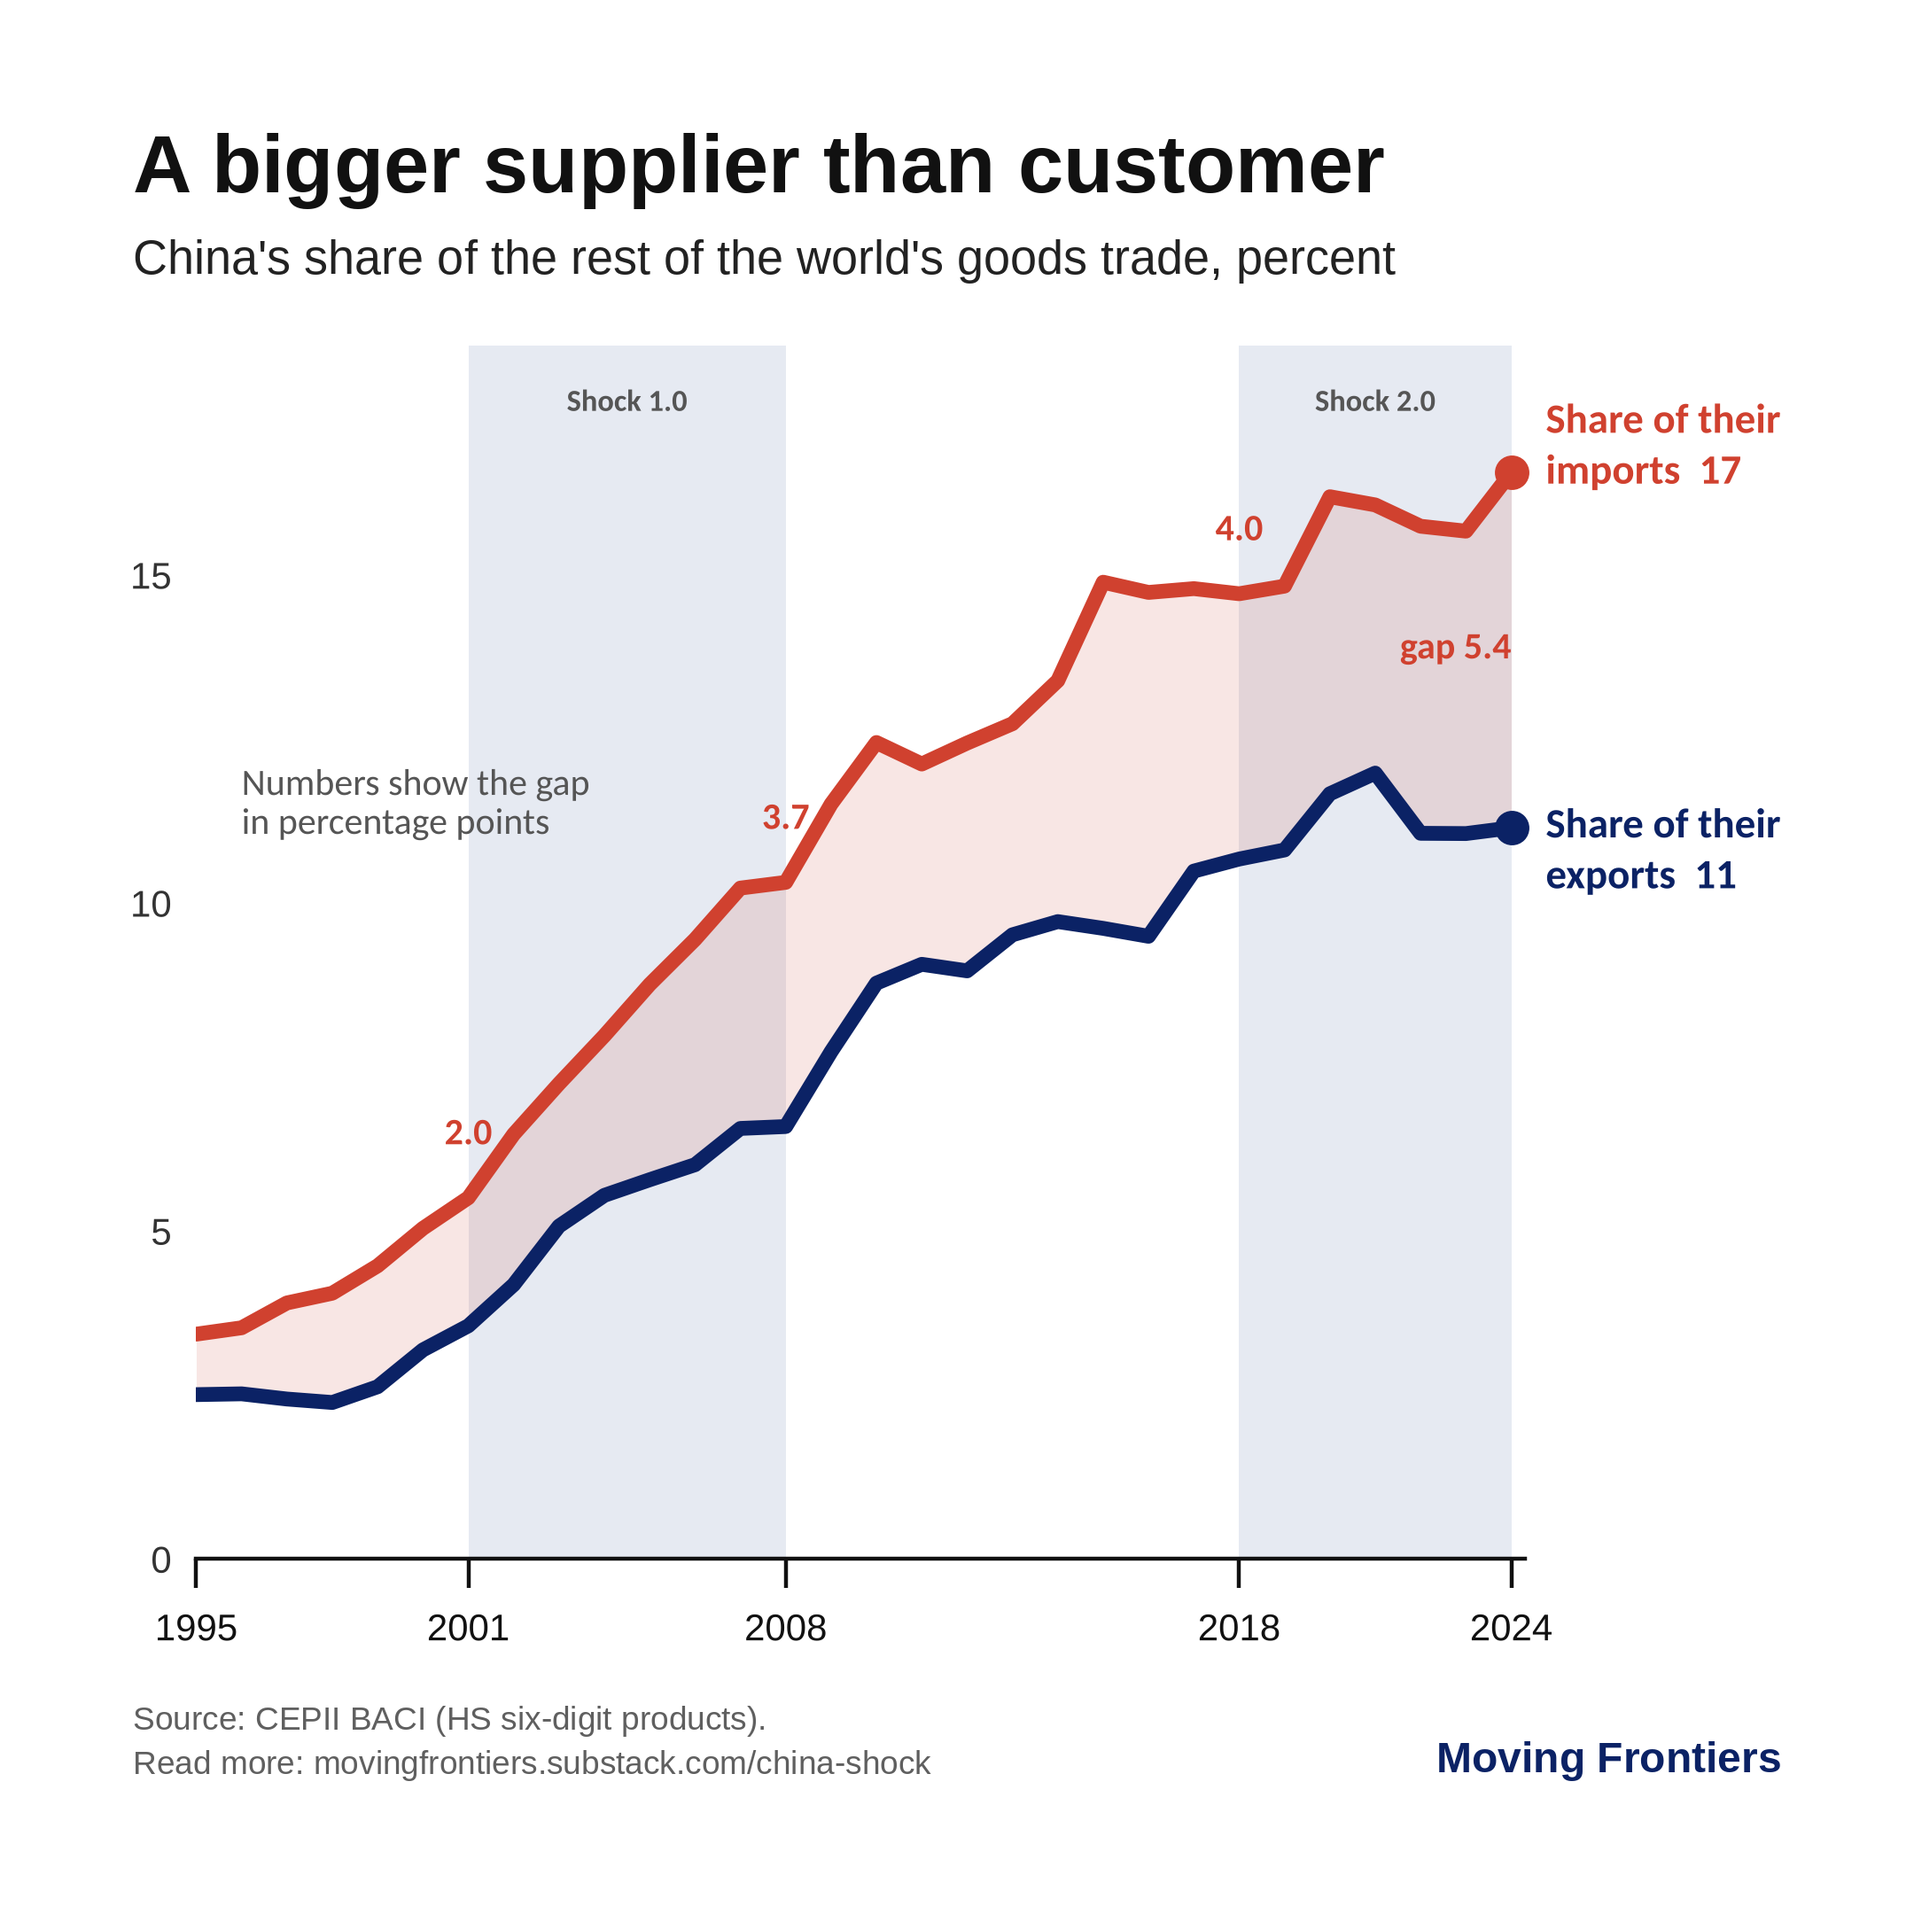
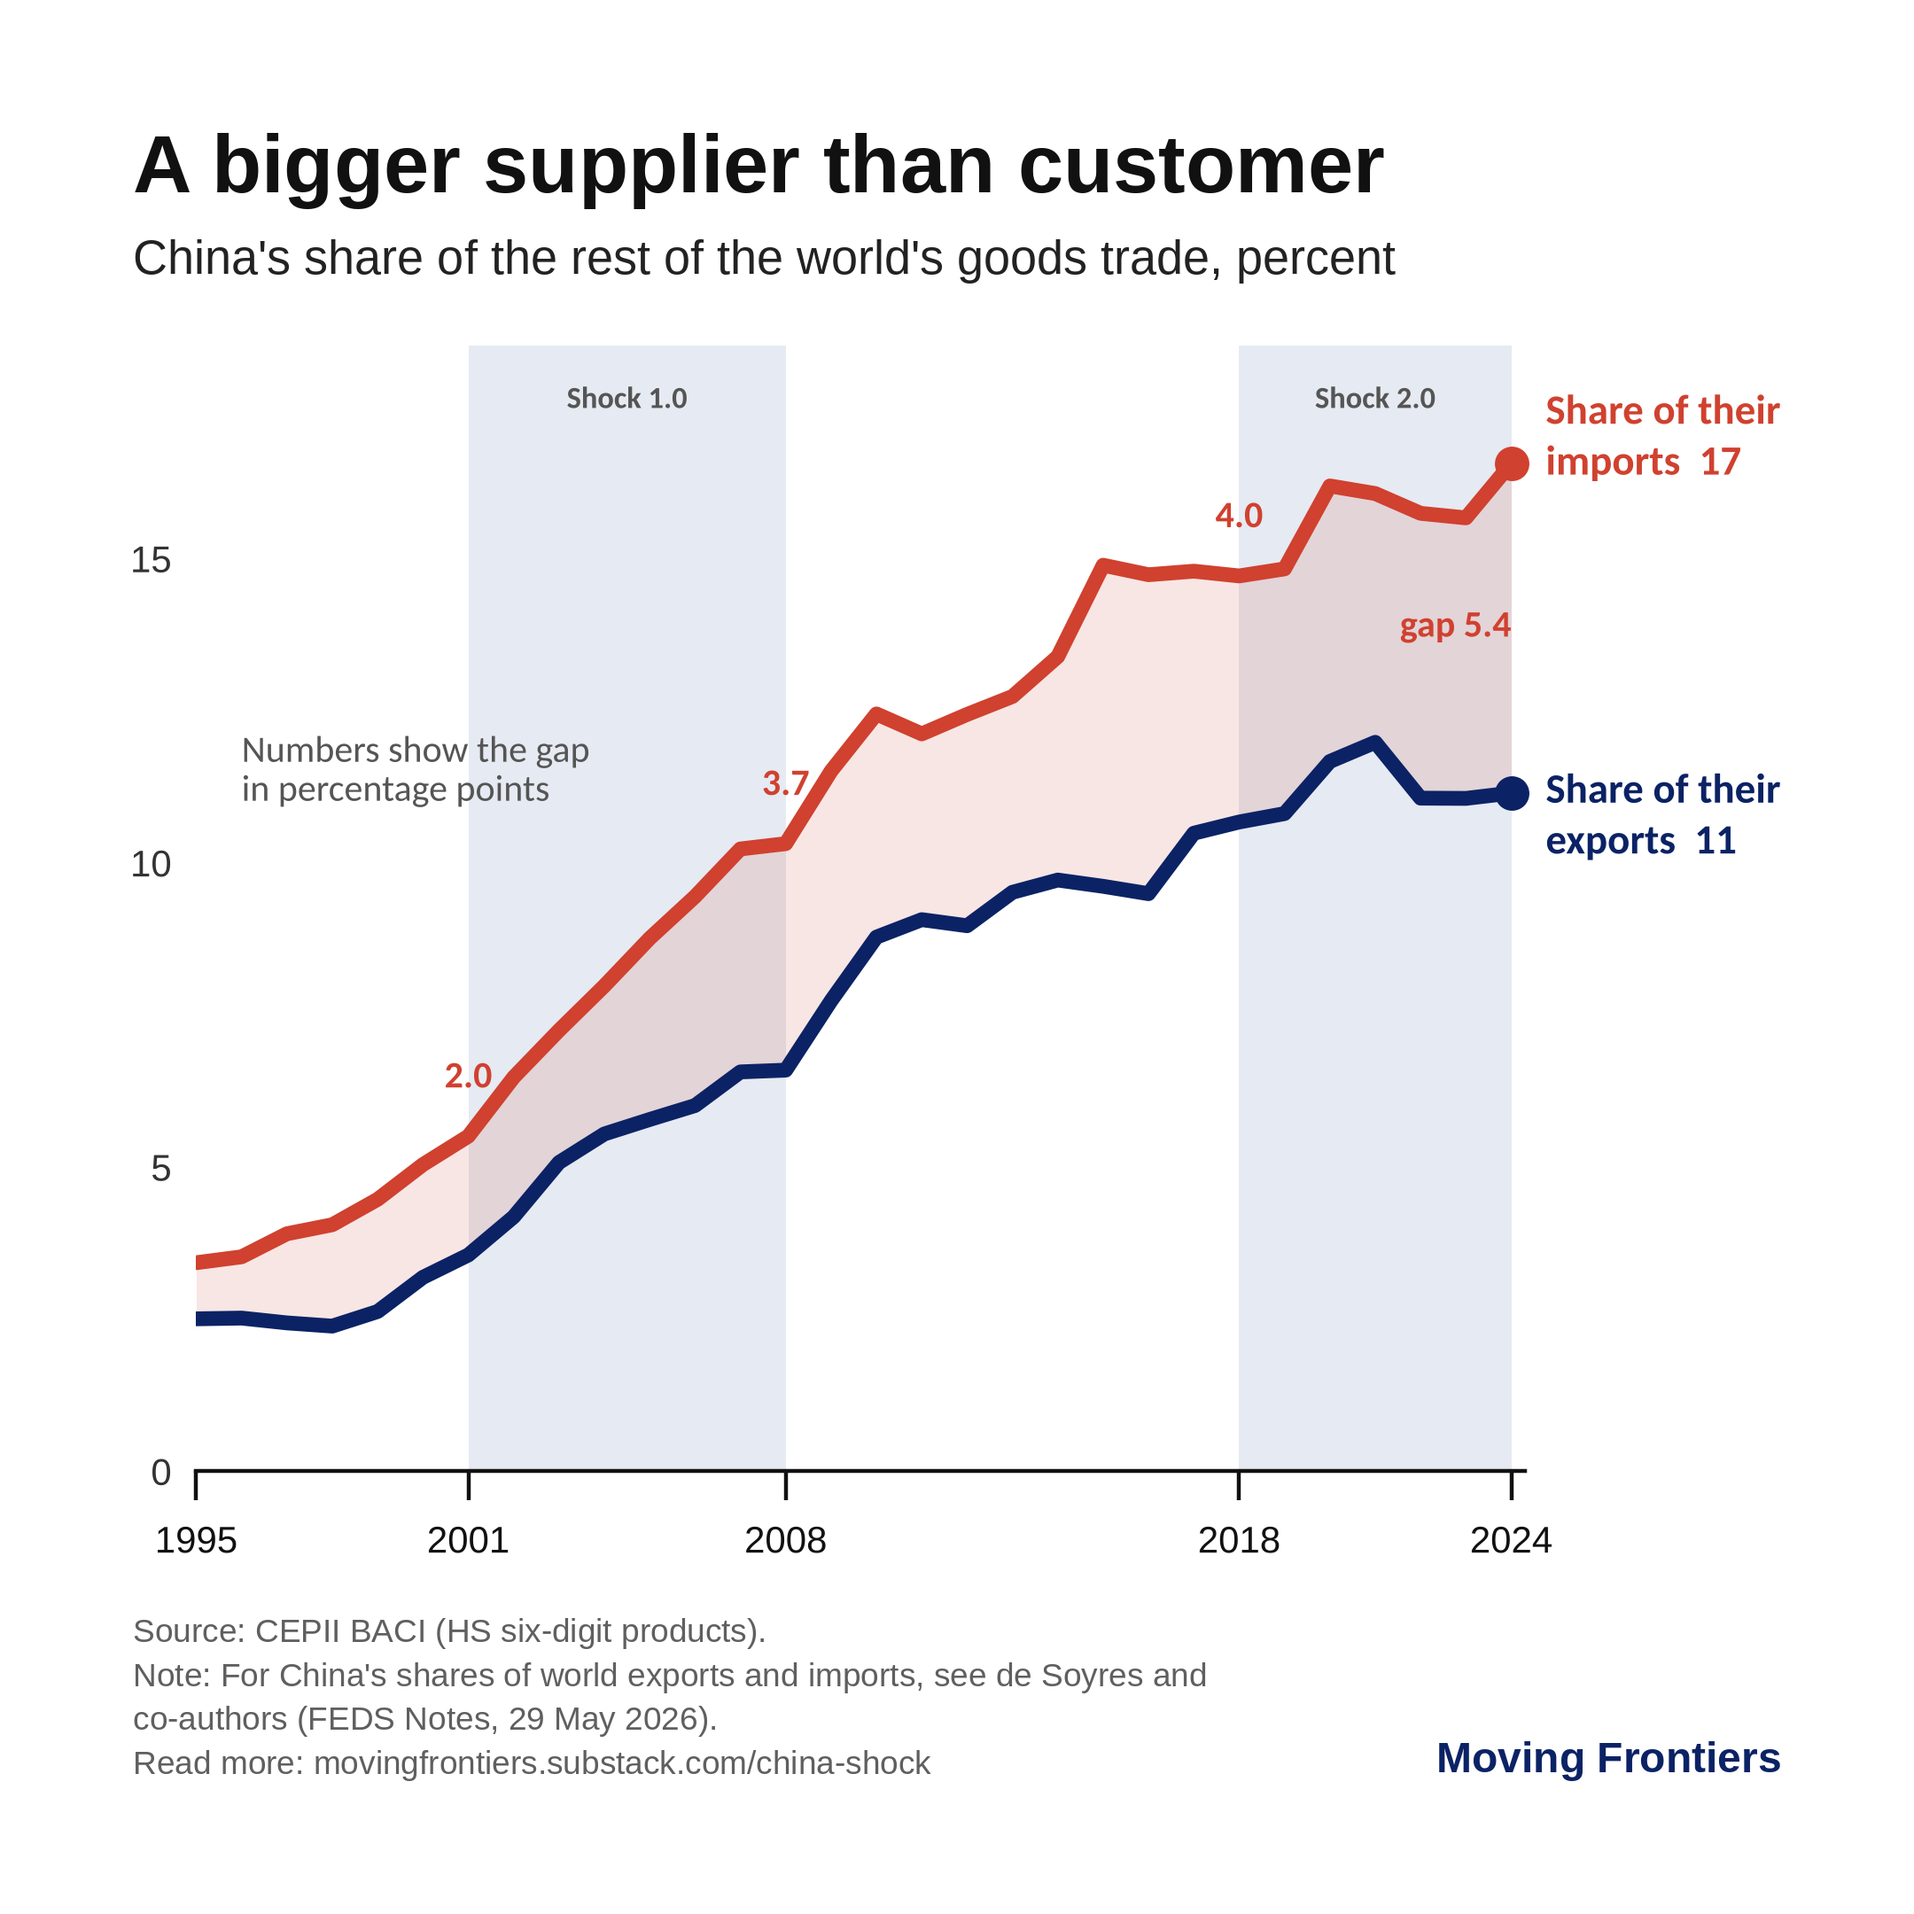
update

diff --git a/20261123-china-leads-world-exports-in-nearly-half-of-all-goods/chart-10-export-similarity.py b/20261123-china-leads-world-exports-in-nearly-half-of-all-goods/chart-10-export-similarity.py
@@ -199,7 +199,7 @@ def ends(ax, x, items, gap, size=None, fmt="{:.0f}", dx=14):
                     fontsize=size or S_VALUE, va="center", annotation_clip=False)
 NAME, DATA = "chart-10-export-similarity", "chart-10-export-similarity"
 # Export similarity index with China: the sum over all HS six-digit products of the smaller of the two economies' export shares.
-# 0 means no product in common; 100 means identical export baskets.
+# 0 means no product in common; 100 means identical export baskets. See also de Soyres and co-authors (FEDS Notes, 29 May 2026).
 D = {r["iso"]: r for r in rows(DATA)}; X = list(range(1995, 2025))
 PICK = [("VNM", GOLD), ("DEU", RED), ("KOR", SKY), ("JPN", NAVY), ("USA", "#7A7A7A"), ("PAK", "#9C6B3F"), ("BGD", "#2E8B57")]
 def plot(fig):
@@ -209,4 +209,4 @@ def plot(fig):
     ends(ax, X[-1], it, 2.6, size=S_LABEL)
     ax.set_xlim(1995, 2024.3); ax.set_ylim(0, 58); ax.set_yticks([0, 10, 20, 30, 40, 50]); ax.set_xticks([1995, 2001, 2008, 2018, 2024])
 compose(plot, "China's exports look like Germany's", "Export similarity with China, index from 0 to 100",
-        SRC + "\nNote: Similarity = 100 x the sum, across about 5,000 products, of the smaller of the product's share in each economy's exports. 0 means no product in common; 100 means identical export baskets.\n" + READ, os.path.join(HERE, NAME + ".png"))
+        SRC + "\nNote: Export similarity index of Finger and Kreinin (1979) = 100 x the sum, across about 5,000 products, of the smaller of the product's share in each economy's exports. 0 means no product in common; 100 means identical export baskets. See also de Soyres and co-authors (FEDS Notes, 29 May 2026).\n" + READ, os.path.join(HERE, NAME + ".png"))

diff --git a/scripts/chart-10-export-similarity.py b/scripts/chart-10-export-similarity.py
@@ -199,7 +199,7 @@ def ends(ax, x, items, gap, size=None, fmt="{:.0f}", dx=14):
                     fontsize=size or S_VALUE, va="center", annotation_clip=False)
 NAME, DATA = "chart-10-export-similarity", "chart-10-export-similarity"
 # Export similarity index with China: the sum over all HS six-digit products of the smaller of the two economies' export shares.
-# 0 means no product in common; 100 means identical export baskets.
+# 0 means no product in common; 100 means identical export baskets. See also de Soyres and co-authors (FEDS Notes, 29 May 2026).
 D = {r["iso"]: r for r in rows(DATA)}; X = list(range(1995, 2025))
 PICK = [("VNM", GOLD), ("DEU", RED), ("KOR", SKY), ("JPN", NAVY), ("USA", "#7A7A7A"), ("PAK", "#9C6B3F"), ("BGD", "#2E8B57")]
 def plot(fig):
@@ -209,4 +209,4 @@ def plot(fig):
     ends(ax, X[-1], it, 2.6, size=S_LABEL)
     ax.set_xlim(1995, 2024.3); ax.set_ylim(0, 58); ax.set_yticks([0, 10, 20, 30, 40, 50]); ax.set_xticks([1995, 2001, 2008, 2018, 2024])
 compose(plot, "China's exports look like Germany's", "Export similarity with China, index from 0 to 100",
-        SRC + "\nNote: Similarity = 100 x the sum, across about 5,000 products, of the smaller of the product's share in each economy's exports. 0 means no product in common; 100 means identical export baskets.\n" + READ, os.path.join(HERE, NAME + ".png"))
+        SRC + "\nNote: Export similarity index of Finger and Kreinin (1979) = 100 x the sum, across about 5,000 products, of the smaller of the product's share in each economy's exports. 0 means no product in common; 100 means identical export baskets. See also de Soyres and co-authors (FEDS Notes, 29 May 2026).\n" + READ, os.path.join(HERE, NAME + ".png"))

diff --git a/20261123-china-leads-world-exports-in-nearly-half-of-all-goods/chart-24-complementarity-over-time.py b/20261123-china-leads-world-exports-in-nearly-half-of-all-goods/chart-24-complementarity-over-time.py
@@ -209,4 +209,4 @@ def plot(fig):
     panel(fig.add_axes([0.07, 0.56, 0.68, 0.42]), [("DEU", RED), ("JPN", NAVY), ("KOR", SKY), ("TWN", GOLD)], "Industrial exporters", 4.6)
     panel(fig.add_axes([0.07, 0.07, 0.68, 0.42]), [("BRA", RED), ("KAZ", NAVY), ("SAU", SKY), ("RUS", GOLD)], "Commodity exporters", 4.6)
 compose(plot, "Germany fits less, Brazil fits more", "Trade complementarity with China's imports, index from 0 to 100",
-        SRC + "\nNote: Complementarity = 100 x (1 minus half the sum, across about 5,000 products, of the gap between the product's share in the economy's exports and in China's imports). 100 means a perfect match.\n" + READ, os.path.join(HERE, NAME + ".png"))
+        SRC + "\nNote: Trade complementarity index of Michaely (1996) = 100 x (1 minus half the sum, across about 5,000 products, of the gap between the product's share in the economy's exports and in China's imports). 100 means a perfect match.\n" + READ, os.path.join(HERE, NAME + ".png"))

diff --git a/scripts/chart-24-complementarity-over-time.py b/scripts/chart-24-complementarity-over-time.py
@@ -209,4 +209,4 @@ def plot(fig):
     panel(fig.add_axes([0.07, 0.56, 0.68, 0.42]), [("DEU", RED), ("JPN", NAVY), ("KOR", SKY), ("TWN", GOLD)], "Industrial exporters", 4.6)
     panel(fig.add_axes([0.07, 0.07, 0.68, 0.42]), [("BRA", RED), ("KAZ", NAVY), ("SAU", SKY), ("RUS", GOLD)], "Commodity exporters", 4.6)
 compose(plot, "Germany fits less, Brazil fits more", "Trade complementarity with China's imports, index from 0 to 100",
-        SRC + "\nNote: Complementarity = 100 x (1 minus half the sum, across about 5,000 products, of the gap between the product's share in the economy's exports and in China's imports). 100 means a perfect match.\n" + READ, os.path.join(HERE, NAME + ".png"))
+        SRC + "\nNote: Trade complementarity index of Michaely (1996) = 100 x (1 minus half the sum, across about 5,000 products, of the gap between the product's share in the economy's exports and in China's imports). 100 means a perfect match.\n" + READ, os.path.join(HERE, NAME + ".png"))

diff --git a/20261123-china-leads-world-exports-in-nearly-half-of-all-goods/chart-2-surplus-history.py b/20261123-china-leads-world-exports-in-nearly-half-of-all-goods/chart-2-surplus-history.py
@@ -211,4 +211,4 @@ def plot(fig):
     ax.annotate("Germany's peak\n0.5 in 2007", (2007, 0.48), xytext=(1996, 0.80), color=SKY, fontfamily=CALIBRI, fontweight="bold", fontsize=S_TICK * 0.9, ha="center", arrowprops=dict(arrowstyle="-", color=SKY, lw=2))
     ax.set_xlim(1970, 2025.4); ax.set_ylim(-0.27, 1.3); ax.set_yticks([0, 0.4, 0.8, 1.2]); ax.set_xticks([1970, 1980, 1990, 2000, 2010, 2020]); ax.spines["bottom"].set_visible(False)
 compose(plot, "No surplus has been this large", "Goods trade balance, percent of the rest of the world's GDP",
-        "Source: World Bank, World Development Indicators.\n" + READ, os.path.join(HERE, NAME + ".png"))
+        "Source: World Bank, World Development Indicators.\nNote: The comparison with Germany and Japan relative to the rest of the world's GDP follows de Soyres and co-authors (FEDS Notes, 29 May 2026).\n" + READ, os.path.join(HERE, NAME + ".png"))

diff --git a/scripts/chart-2-surplus-history.py b/scripts/chart-2-surplus-history.py
@@ -211,4 +211,4 @@ def plot(fig):
     ax.annotate("Germany's peak\n0.5 in 2007", (2007, 0.48), xytext=(1996, 0.80), color=SKY, fontfamily=CALIBRI, fontweight="bold", fontsize=S_TICK * 0.9, ha="center", arrowprops=dict(arrowstyle="-", color=SKY, lw=2))
     ax.set_xlim(1970, 2025.4); ax.set_ylim(-0.27, 1.3); ax.set_yticks([0, 0.4, 0.8, 1.2]); ax.set_xticks([1970, 1980, 1990, 2000, 2010, 2020]); ax.spines["bottom"].set_visible(False)
 compose(plot, "No surplus has been this large", "Goods trade balance, percent of the rest of the world's GDP",
-        "Source: World Bank, World Development Indicators.\n" + READ, os.path.join(HERE, NAME + ".png"))
+        "Source: World Bank, World Development Indicators.\nNote: The comparison with Germany and Japan relative to the rest of the world's GDP follows de Soyres and co-authors (FEDS Notes, 29 May 2026).\n" + READ, os.path.join(HERE, NAME + ".png"))

diff --git a/20261123-china-leads-world-exports-in-nearly-half-of-all-goods/chart-17-world-linkages.py b/20261123-china-leads-world-exports-in-nearly-half-of-all-goods/chart-17-world-linkages.py
@@ -210,4 +210,4 @@ def plot(fig):
     lab(ax, 1996, 11.5, "Numbers show the gap\nin percentage points", GREY_TXT, bold=False, size=S_TICK)
     ax.set_xlim(1995, 2024.3); ax.set_ylim(0, 18.5); ax.set_yticks([0, 5, 10, 15]); ax.set_xticks([1995, 2001, 2008, 2018, 2024])
 compose(plot, "A bigger supplier than customer", "China's share of the rest of the world's goods trade, percent",
-        SRC + "\n" + READ, os.path.join(HERE, NAME + ".png"))
+        SRC + "\nNote: For China's shares of world exports and imports, see de Soyres and co-authors (FEDS Notes, 29 May 2026).\n" + READ, os.path.join(HERE, NAME + ".png"))

diff --git a/scripts/chart-17-world-linkages.py b/scripts/chart-17-world-linkages.py
@@ -210,4 +210,4 @@ def plot(fig):
     lab(ax, 1996, 11.5, "Numbers show the gap\nin percentage points", GREY_TXT, bold=False, size=S_TICK)
     ax.set_xlim(1995, 2024.3); ax.set_ylim(0, 18.5); ax.set_yticks([0, 5, 10, 15]); ax.set_xticks([1995, 2001, 2008, 2018, 2024])
 compose(plot, "A bigger supplier than customer", "China's share of the rest of the world's goods trade, percent",
-        SRC + "\n" + READ, os.path.join(HERE, NAME + ".png"))
+        SRC + "\nNote: For China's shares of world exports and imports, see de Soyres and co-authors (FEDS Notes, 29 May 2026).\n" + READ, os.path.join(HERE, NAME + ".png"))
